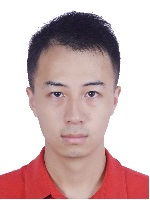
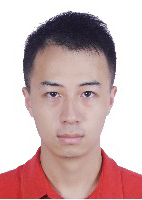
update team picture

diff --git a/team.html b/team.html
@@ -148,7 +148,7 @@
                         <div class="col-sm-6 col-md-4">
                             <div style="width: 100%;">
                                 <a href="http://www.cs.jhu.edu/~ayuille/">
-                                    <img class="photo" src="img/team/default.jpeg">
+                                    <img class="photo" src="img/team/lizhengxin.jpg">
                                 </a>
                                 <h4>
                                     <a href="http://www.cs.jhu.edu/~ayuille/">
@@ -213,7 +213,7 @@
                         </div>
                         <div class="col-sm-6 col-md-3">
                             <div style="width: 100%;">
-                                <img class="photo" src="img/team/liuwen.png">
+                                <img class="photo" src="img/team/liuwen.jpg">
                                 <h4>
                                     Wen Liu
                                 </h4>
@@ -243,7 +243,7 @@
                         </div>
                         <div class="col-sm-6 col-md-3">
                             <div style="width: 100%;">
-                                <img class="photo" src="img/team/default.jpeg">
+                                <img class="photo" src="img/team/dongyanbing.jpg">
                                 <h4>
                                     Yanbing Dong
                                 </h4>
@@ -252,7 +252,7 @@
                         </div>
                         <div class="col-sm-6 col-md-3">
                             <div style="width: 100%;">
-                                <img class="photo" src="img/team/default.jpeg">
+                                <img class="photo" src="img/team/hulina.jpg">
                                 <h4>
                                     Lina Hu
                                 </h4>
@@ -270,7 +270,7 @@
                         </div>
                         <div class="col-sm-6 col-md-3">
                             <div style="width: 100%;">
-                                <img class="photo" src="img/team/default.jpeg">
+                                <img class="photo" src="img/team/zhengjia.jpg">
                                 <h4>
                                     Jia Zheng
                                 </h4>
@@ -279,7 +279,7 @@
                         </div>
                         <div class="col-sm-6 col-md-3">
                             <div style="width: 100%;">
-                                <img class="photo" src="img/team/default.jpeg">
+                                <img class="photo" src="img/team/zhoukang.jpg">
                                 <h4>
                                     Kang Zhou
                                 </h4>

diff --git a/team/xuyy.html b/team/xuyy.html
@@ -36,23 +36,23 @@
             <div class="collapse navbar-collapse scrollspy" id="bs-example-navbar-collapse-1">
                 <ul class="nav navbar-nav navbar-right">
                     <li>
-                        <a class="scroll" href="index.html">Home</a>
+                        <a class="scroll" href="../index.html">Home</a>
                     </li>
                     <li>
-                        <a class="scroll" href="news.html">News</a>
+                        <a class="scroll" href="../news.html">News</a>
                     </li>
                     <!-- <li><a class="scroll" href="/events">Event</a></li> -->
                     <li>
-                        <a class="scroll" href="team.html">Team</a>
+                        <a class="scroll" href="../team.html">Team</a>
                     </li>
                     <li>
-                        <a class="scroll" href="publication.html">Publication</a>
+                        <a class="scroll" href="../publication.html">Publication</a>
                     </li>
                     <li>
-                        <a class="scroll" href="projects.html">Projects</a>
+                        <a class="scroll" href="../projects.html">Projects</a>
                     </li>
                     <li>
-                        <a class="scroll" href="datasets.html">Datasets</a>
+                        <a class="scroll" href="../datasets.html">Datasets</a>
                     </li>
                 </ul>
             </div>
